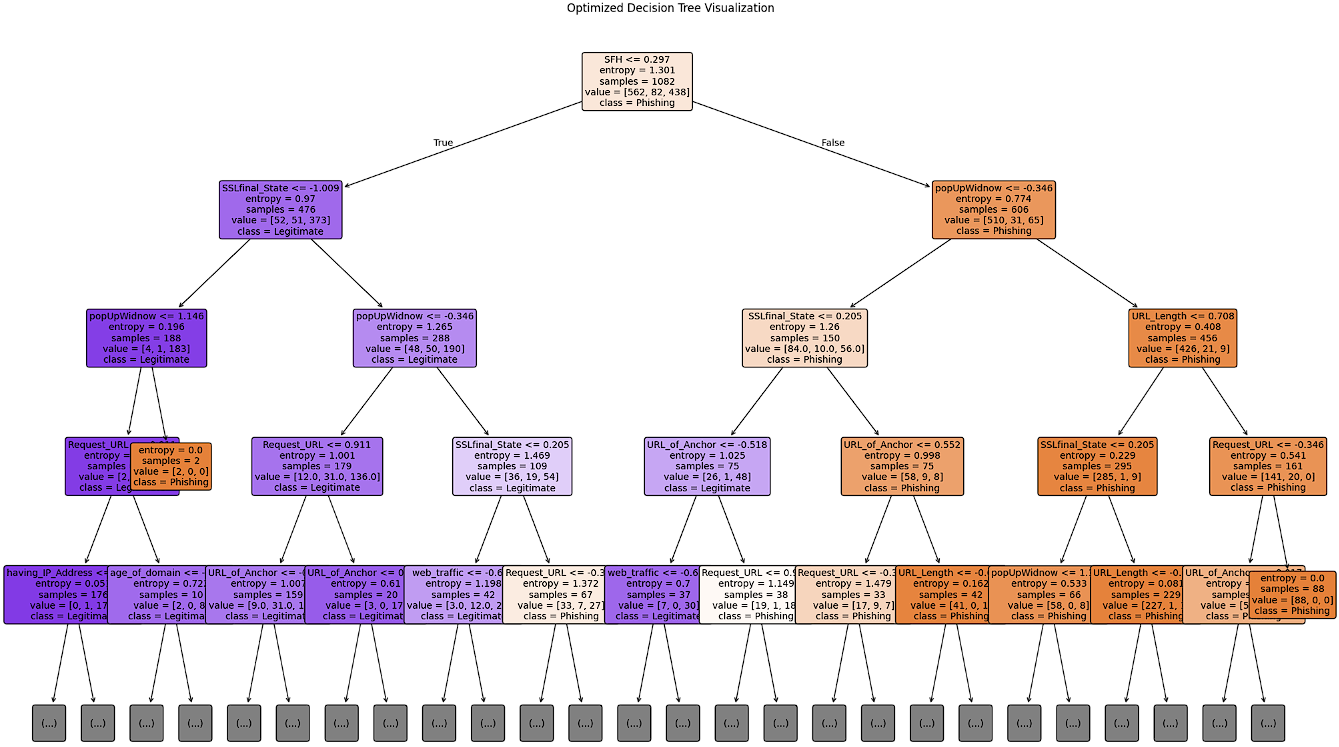
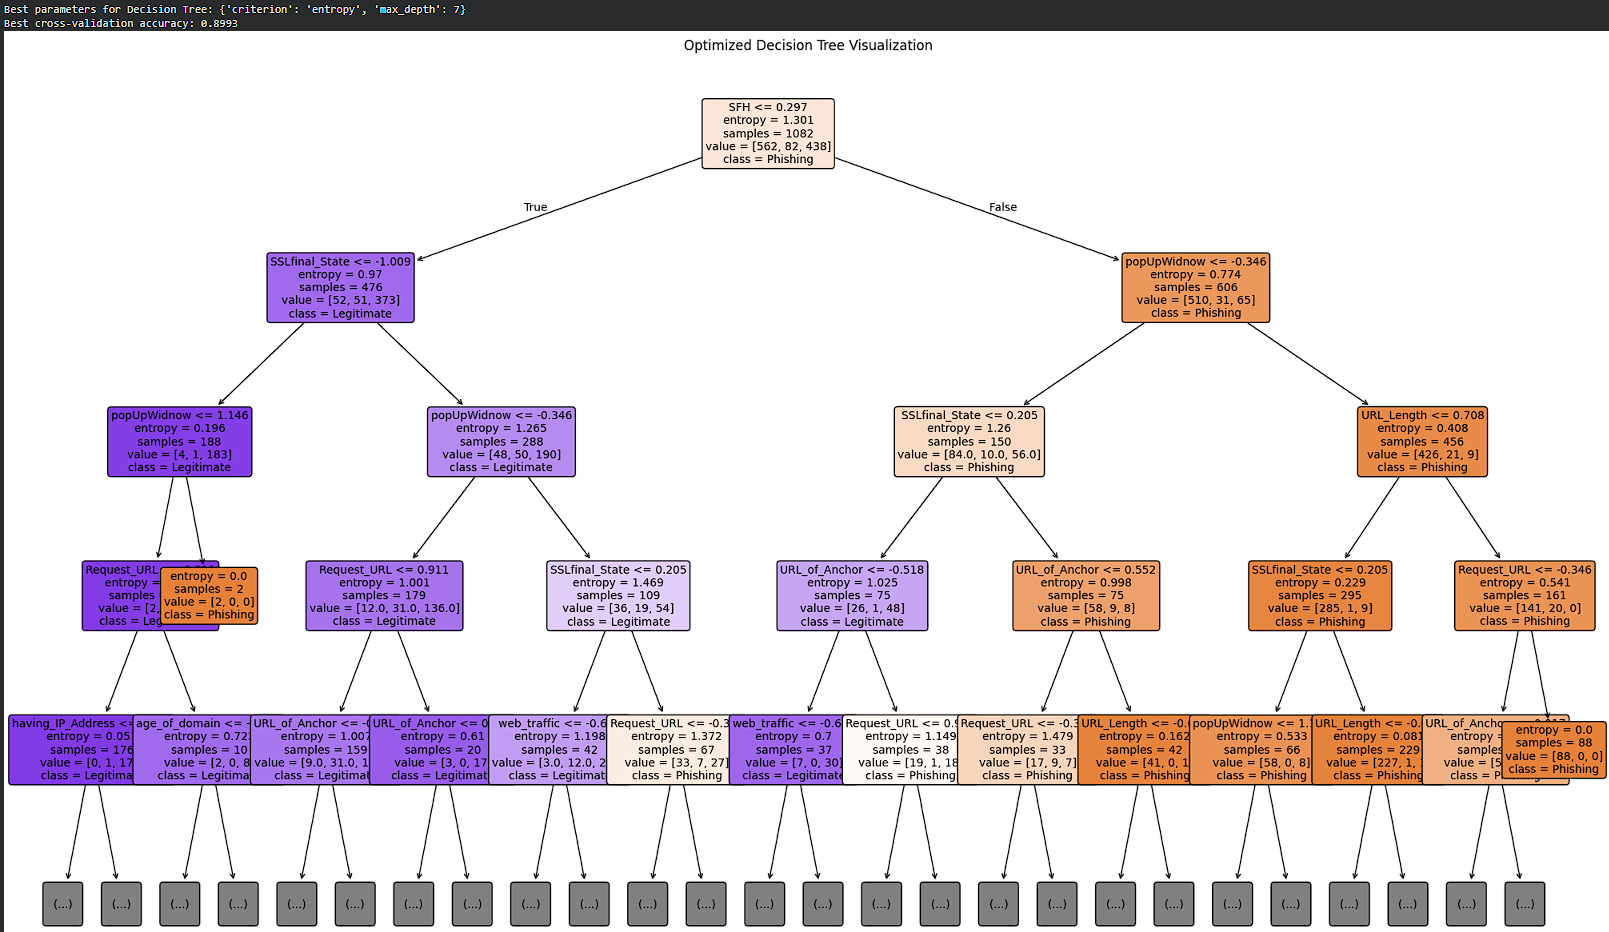
Fluid image for phishing project

diff --git a/projects/phishing.md b/projects/phishing.md
@@ -32,10 +32,25 @@ Extensive Feature Details: [“Phishing Websites Features”](https://docs.googl
 
 In both of the datasets, the number of samples corresponds to the number of websites that were analyzed with a malware analyzer. For each specific attribute (such as having IP address, web traffic, pop up window, etc.), the analyzer assigns that website’s attribute an integer, where -1 means phishing, 0 means suspicious (either phishing or legitimate), and 1 means legitimate. For each website, the overall disposition is given the label “Result” and also uses the same integer assignment classification system. We will be comparing the performance metrics of our classification methods and report both the baseline models’ and optimized models’ accuracy, precision, recall, and F1-score statistics, as well as the gain in the models’ performance metrics after K-fold cross validation optimization. 
 
-<div>
-  <img class="img-fluid" src="../img/dataset2(1).png" style="display: inline-block; width: 30%; margin-right: 1%;">
-  <img class="img-fluid" src="../img/dataset2(2).png" style="display: inline-block; width: 26%; margin-right: 1%;">
-  <img class="img-fluid" src="../img/dataset2(3).png" style="display: inline-block; width: 38%;">
+
+<div style="display: flex; justify-content: center; gap: 0.1%;">
+  <img src="../img/dataset1(1).png"
+       style="height: 200px; width: 30%; object-fit: contain;">
+  <img src="../img/dataset1(2).png"
+       style="height: 200px; width: 26%; object-fit: contain;">
+  <img src="../img/dataset1(3).png"
+       style="height: 200px; width: 38%; object-fit: contain;">
+</div>
+
+<br>
+
+<div style="display: flex; justify-content: center; gap: 0.1%;">
+  <img src="../img/dataset2(1).png"
+       style="height: 200px; width: 30%; object-fit: contain;">
+  <img src="../img/dataset2(2).png"
+       style="height: 200px; width: 26%; object-fit: contain;">
+  <img src="../img/dataset2(3).png"
+       style="height: 200px; width: 38%; object-fit: contain;">
 </div>
 
 ## Results & Discussion
